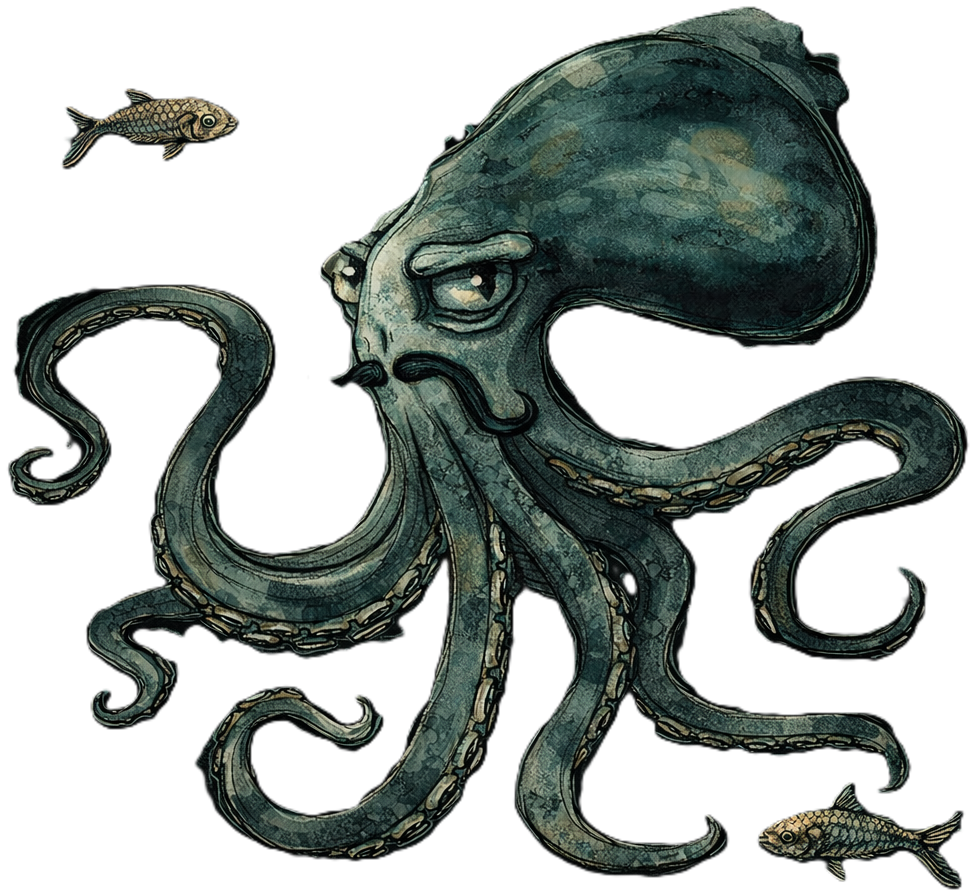
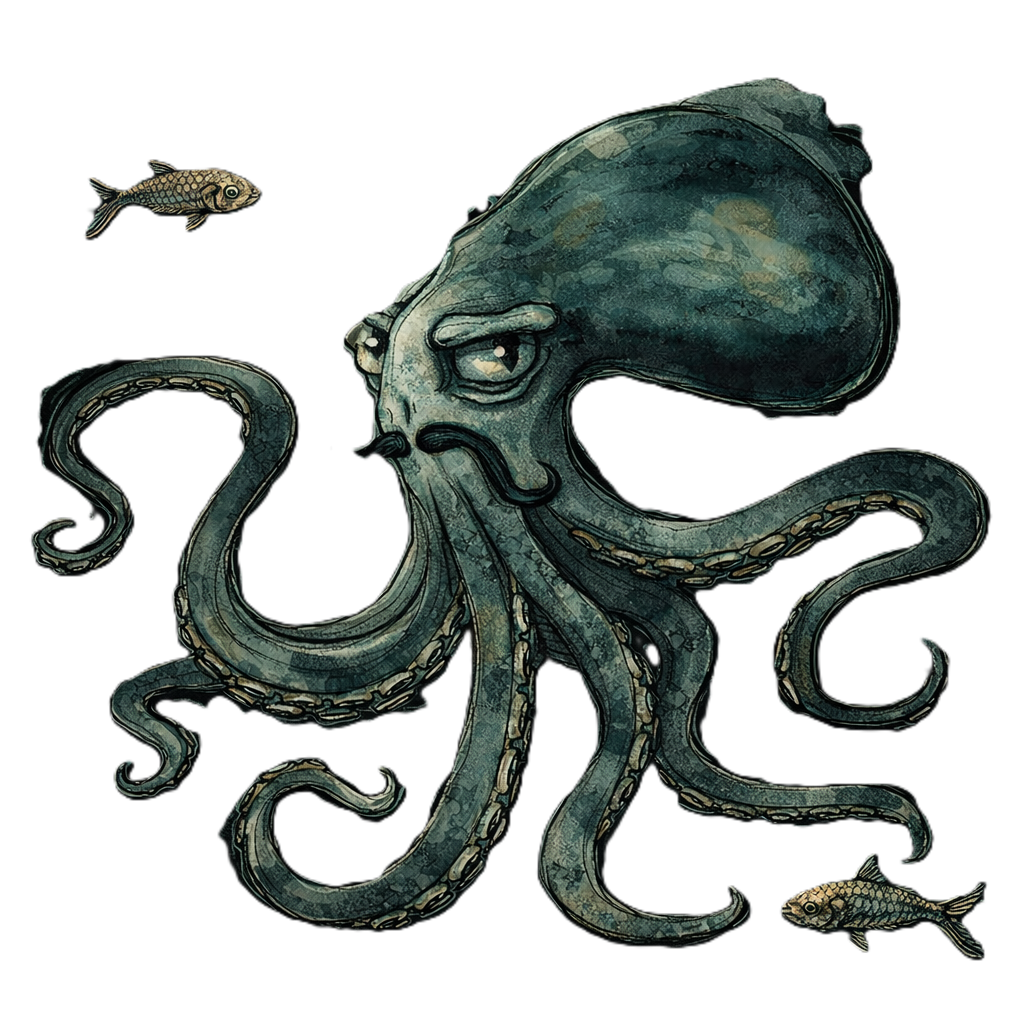
sly

diff --git a/slytherin/2026/game.html b/slytherin/2026/game.html
@@ -3,7 +3,8 @@
 <head>
 <meta charset="UTF-8">
 <meta name="viewport" content="width=device-width, initial-scale=1.0, user-scalable=yes">
-<title>Сундук — Слизерин 2026</title>
+<title>Игра гигантского кальмара — Слизерин 2026</title>
+<link rel="icon" type="image/x-icon" href="favicon-s.ico">
 <link rel="preconnect" href="https://fonts.googleapis.com">
 <link href="https://fonts.googleapis.com/css2?family=Cinzel:wght@400;600;700&family=Cormorant+Garamond:ital,wght@0,300;0,400;1,300;1,400&display=swap" rel="stylesheet">
 <style>
@@ -207,41 +208,6 @@ main {
   border-color: var(--gold);
   background: rgba(172,156,108,0.25);
   color: var(--gold);
-}
-
-.bubble-btns:empty { display: none; }
-
-/* маленькая кнопка правил — как в исходной версии */
-#rules-fab {
-  position: absolute;
-  top: 12px;
-  left: 12px;
-  z-index: 8;
-  width: 38px;
-  height: 38px;
-  padding: 0;
-  border: 1px solid rgba(172,156,108,0.58);
-  border-radius: 50%;
-  background: rgba(12,18,12,0.78);
-  color: var(--gold);
-  font-family: Arial, Helvetica, sans-serif;
-  font-size: 18px;
-  font-weight: 500;
-  line-height: 1;
-  display: flex;
-  align-items: center;
-  justify-content: center;
-  cursor: pointer;
-  opacity: 0.9;
-  transition: opacity .2s ease, border-color .2s ease, background .2s ease, transform .2s ease;
-}
-#rules-fab:hover,
-#rules-fab:focus-visible {
-  opacity: 1;
-  border-color: var(--gold);
-  background: rgba(172,156,108,0.10);
-  transform: scale(1.03);
-  outline: none;
 }
 
 /* ── КОНТЕЙНЕР СТОЛА (центрирован) ── */
@@ -611,7 +577,6 @@ footer {
   <div id="game-area">
     <!-- ОБЛАКО КАЛЬМАРА (широкое, статическое, над картами) -->
     <div id="speech-bubble">
-      <button id="rules-fab" type="button" title="Узнать правила" aria-label="Узнать правила">?</button>
       <div class="bubble-text" id="bubble-text"></div>
       <div class="bubble-btns" id="bubble-btns"></div>
     </div>
@@ -851,11 +816,15 @@ function showSquidStart() {
   const wrap = document.getElementById('squid-wrap');
   setBubble(
     'Буль-буль... Сундук открыт! Открывай карты на столе одну за другой — слева направо.',
-    [],
+    [
+      { label: 'Узнать правила', id: 'btn-rules' }
+    ],
     false
   );
   wrap.style.display = 'flex';
   requestAnimationFrame(() => requestAnimationFrame(() => { wrap.style.opacity = '1'; }));
+
+  document.getElementById('btn-rules').addEventListener('click', openRules);
 }
 
 function updateSquidMid(stamp) {
@@ -912,7 +881,6 @@ function setBubble(htmlText, buttons, win) {
 function openRules() {
   document.getElementById('rules-modal').classList.add('open');
 }
-document.getElementById('rules-fab').addEventListener('click', openRules);
 document.getElementById('rules-close').addEventListener('click', () => {
   document.getElementById('rules-modal').classList.remove('open');
 });
